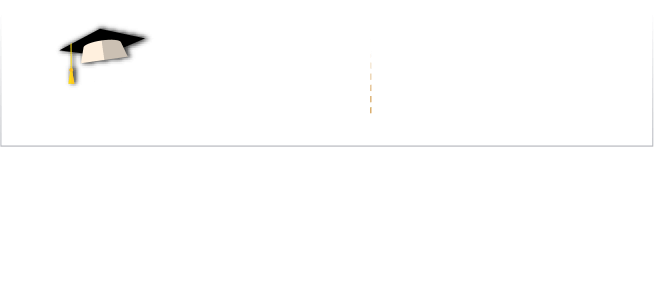
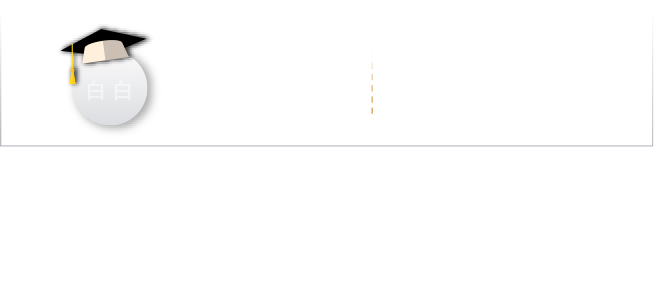
年度十佳调整图片和文案

Changed region(s): [[0.0917, 0.2254, 0.2446, 0.4789], [0.0917, 0.1127, 0.2446, 0.3099]]

diff --git a/review2017/src/view/expert.vue b/review2017/src/view/expert.vue
@@ -3,8 +3,9 @@
         <div class="expert-title">
             <img src="../assets/detail_logo.png" alt="">
         </div>
-        <div class="content-tips">
+        <div style="padding-bottom: 1px;" class="content-tips">
             <span>数据来源：基于扑克财经App大数据</span>
+            <p>点击智咖即可查看智咖详情</p>
         </div>
         <!-- 专家 -->
           <div class="content-main">

diff --git a/review2017/src/view/qa.vue b/review2017/src/view/qa.vue
@@ -3,8 +3,9 @@
         <div class="expert-title">
             <img src="../assets/detail_logo.png" alt="">
         </div>
-        <div class="content-tips">
+        <div style="padding-bottom: 1px;" class="content-tips">
             <span>数据来源：基于扑克财经App大数据</span>
+            <p>点击问题即可查看问答详情</p>
         </div>
         <!-- 专家 -->
           <div class="content-main">
